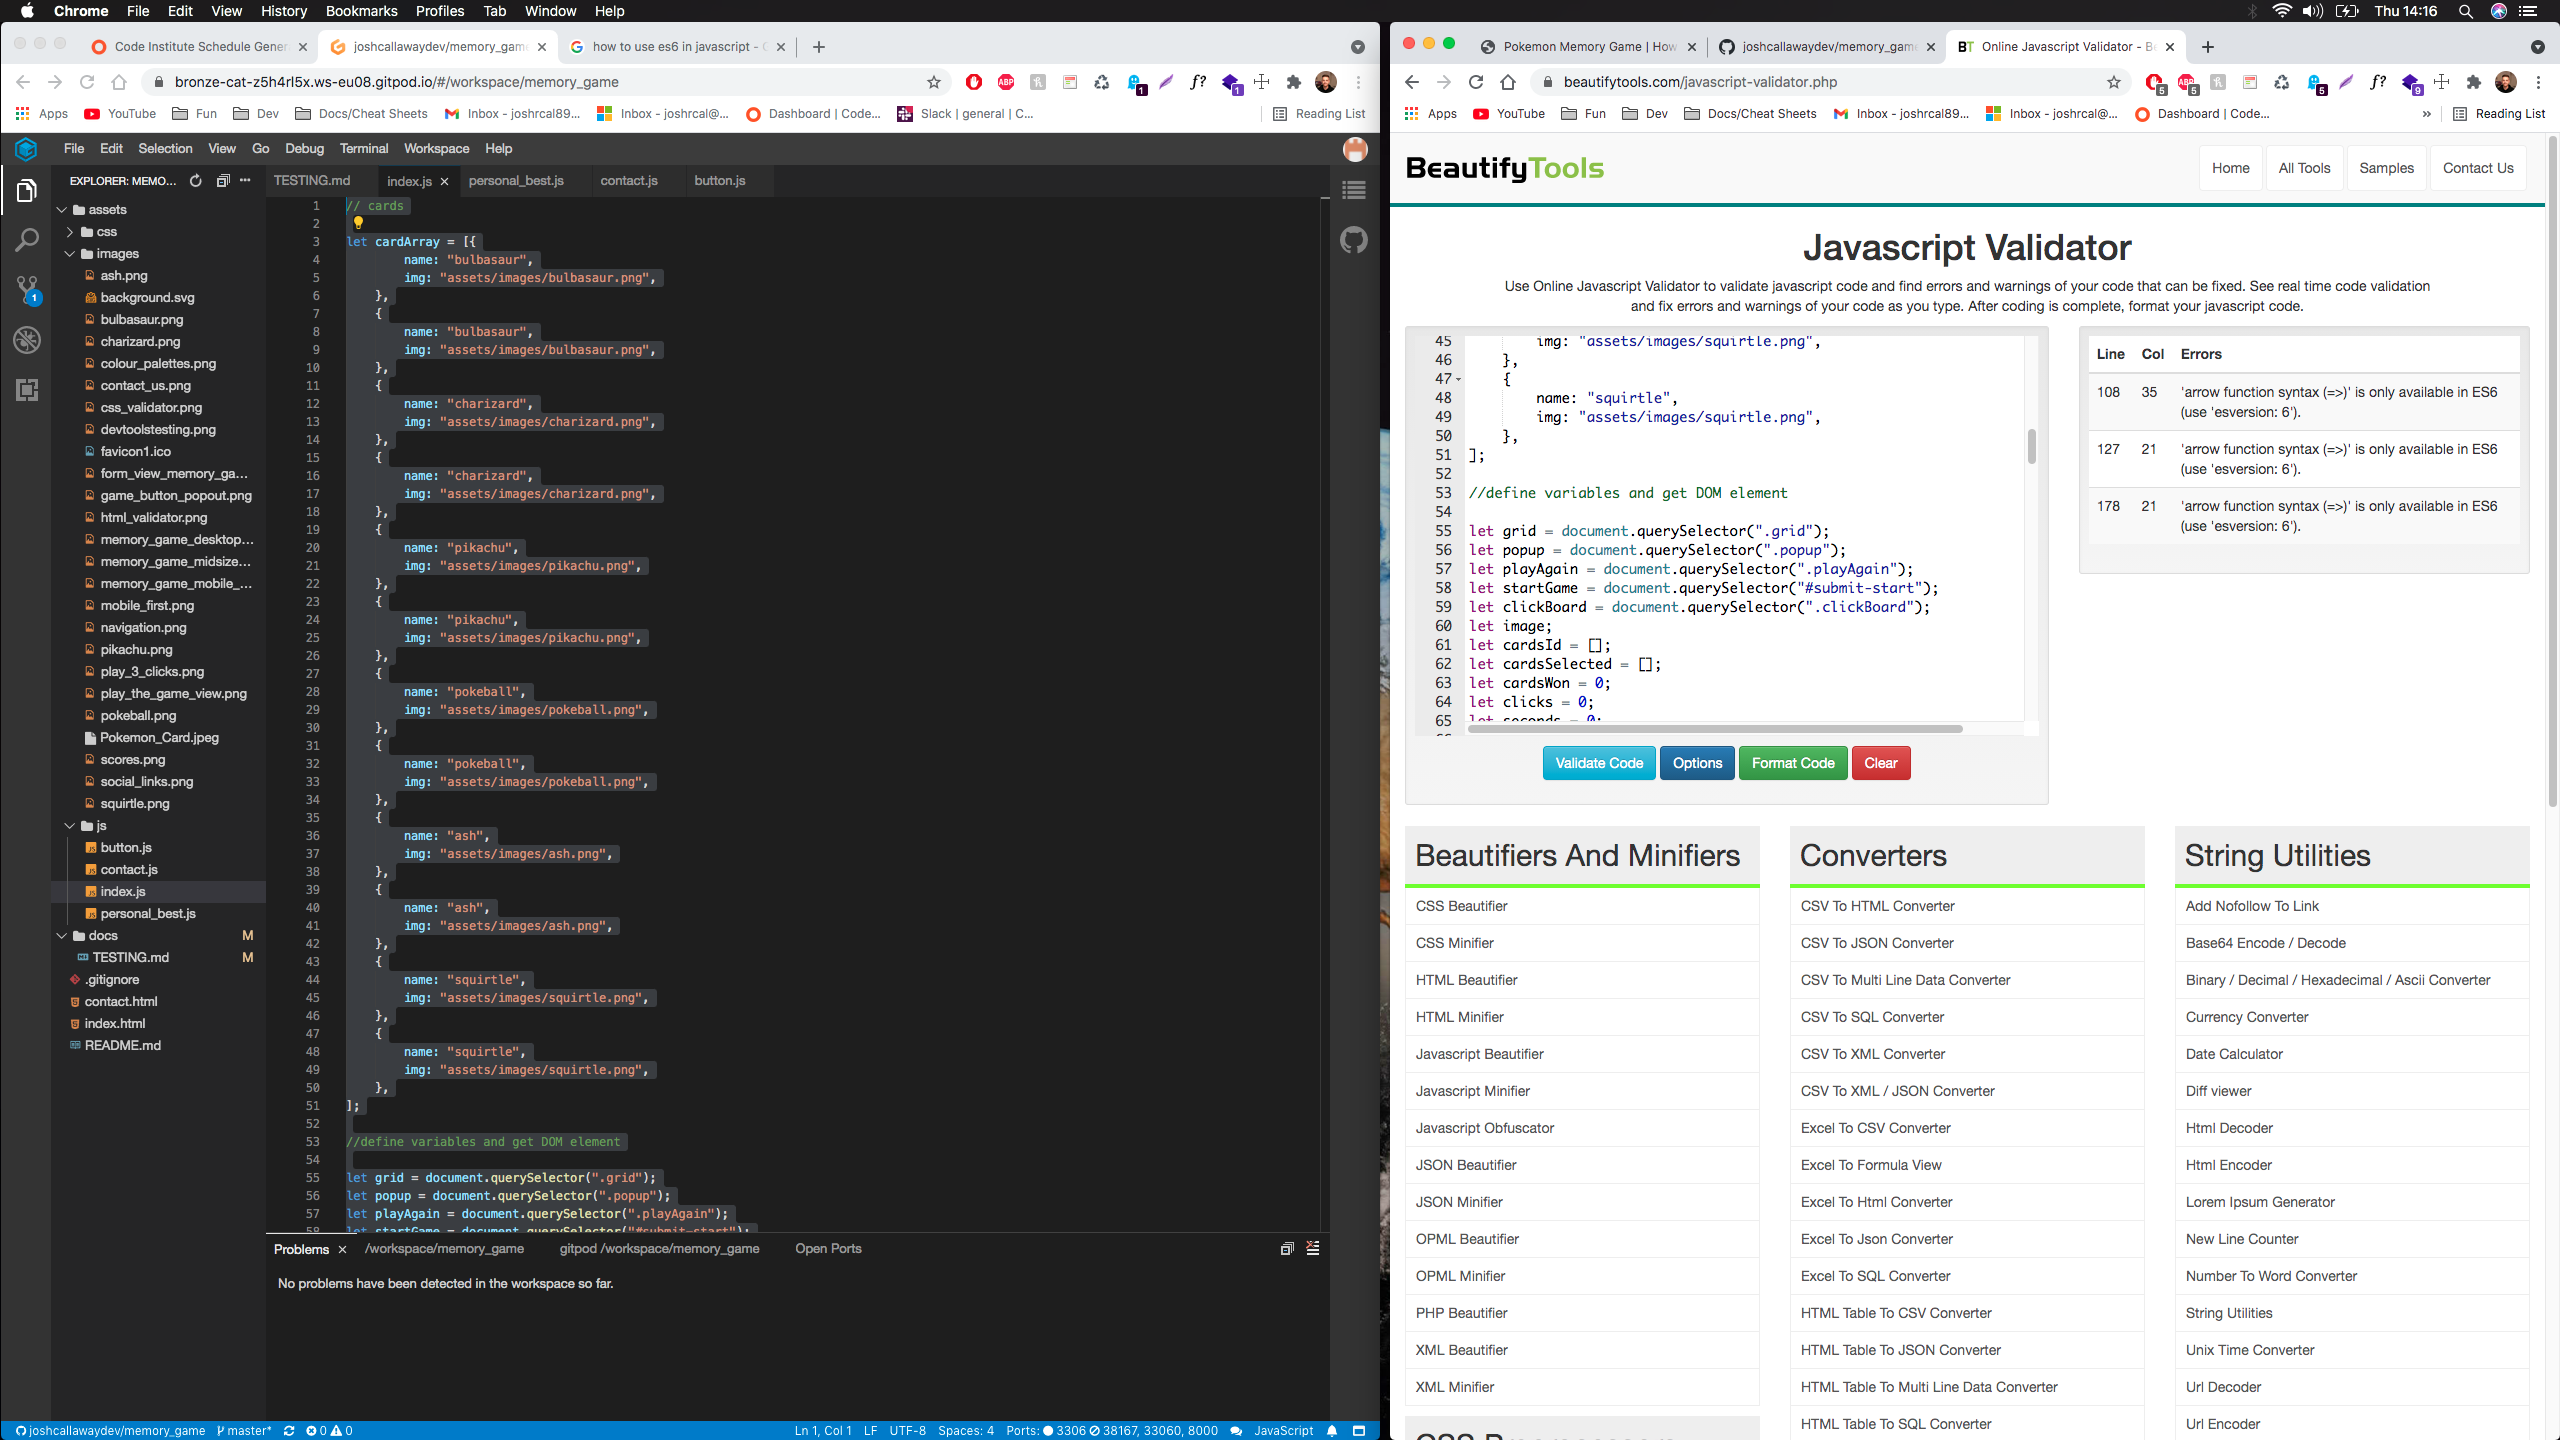
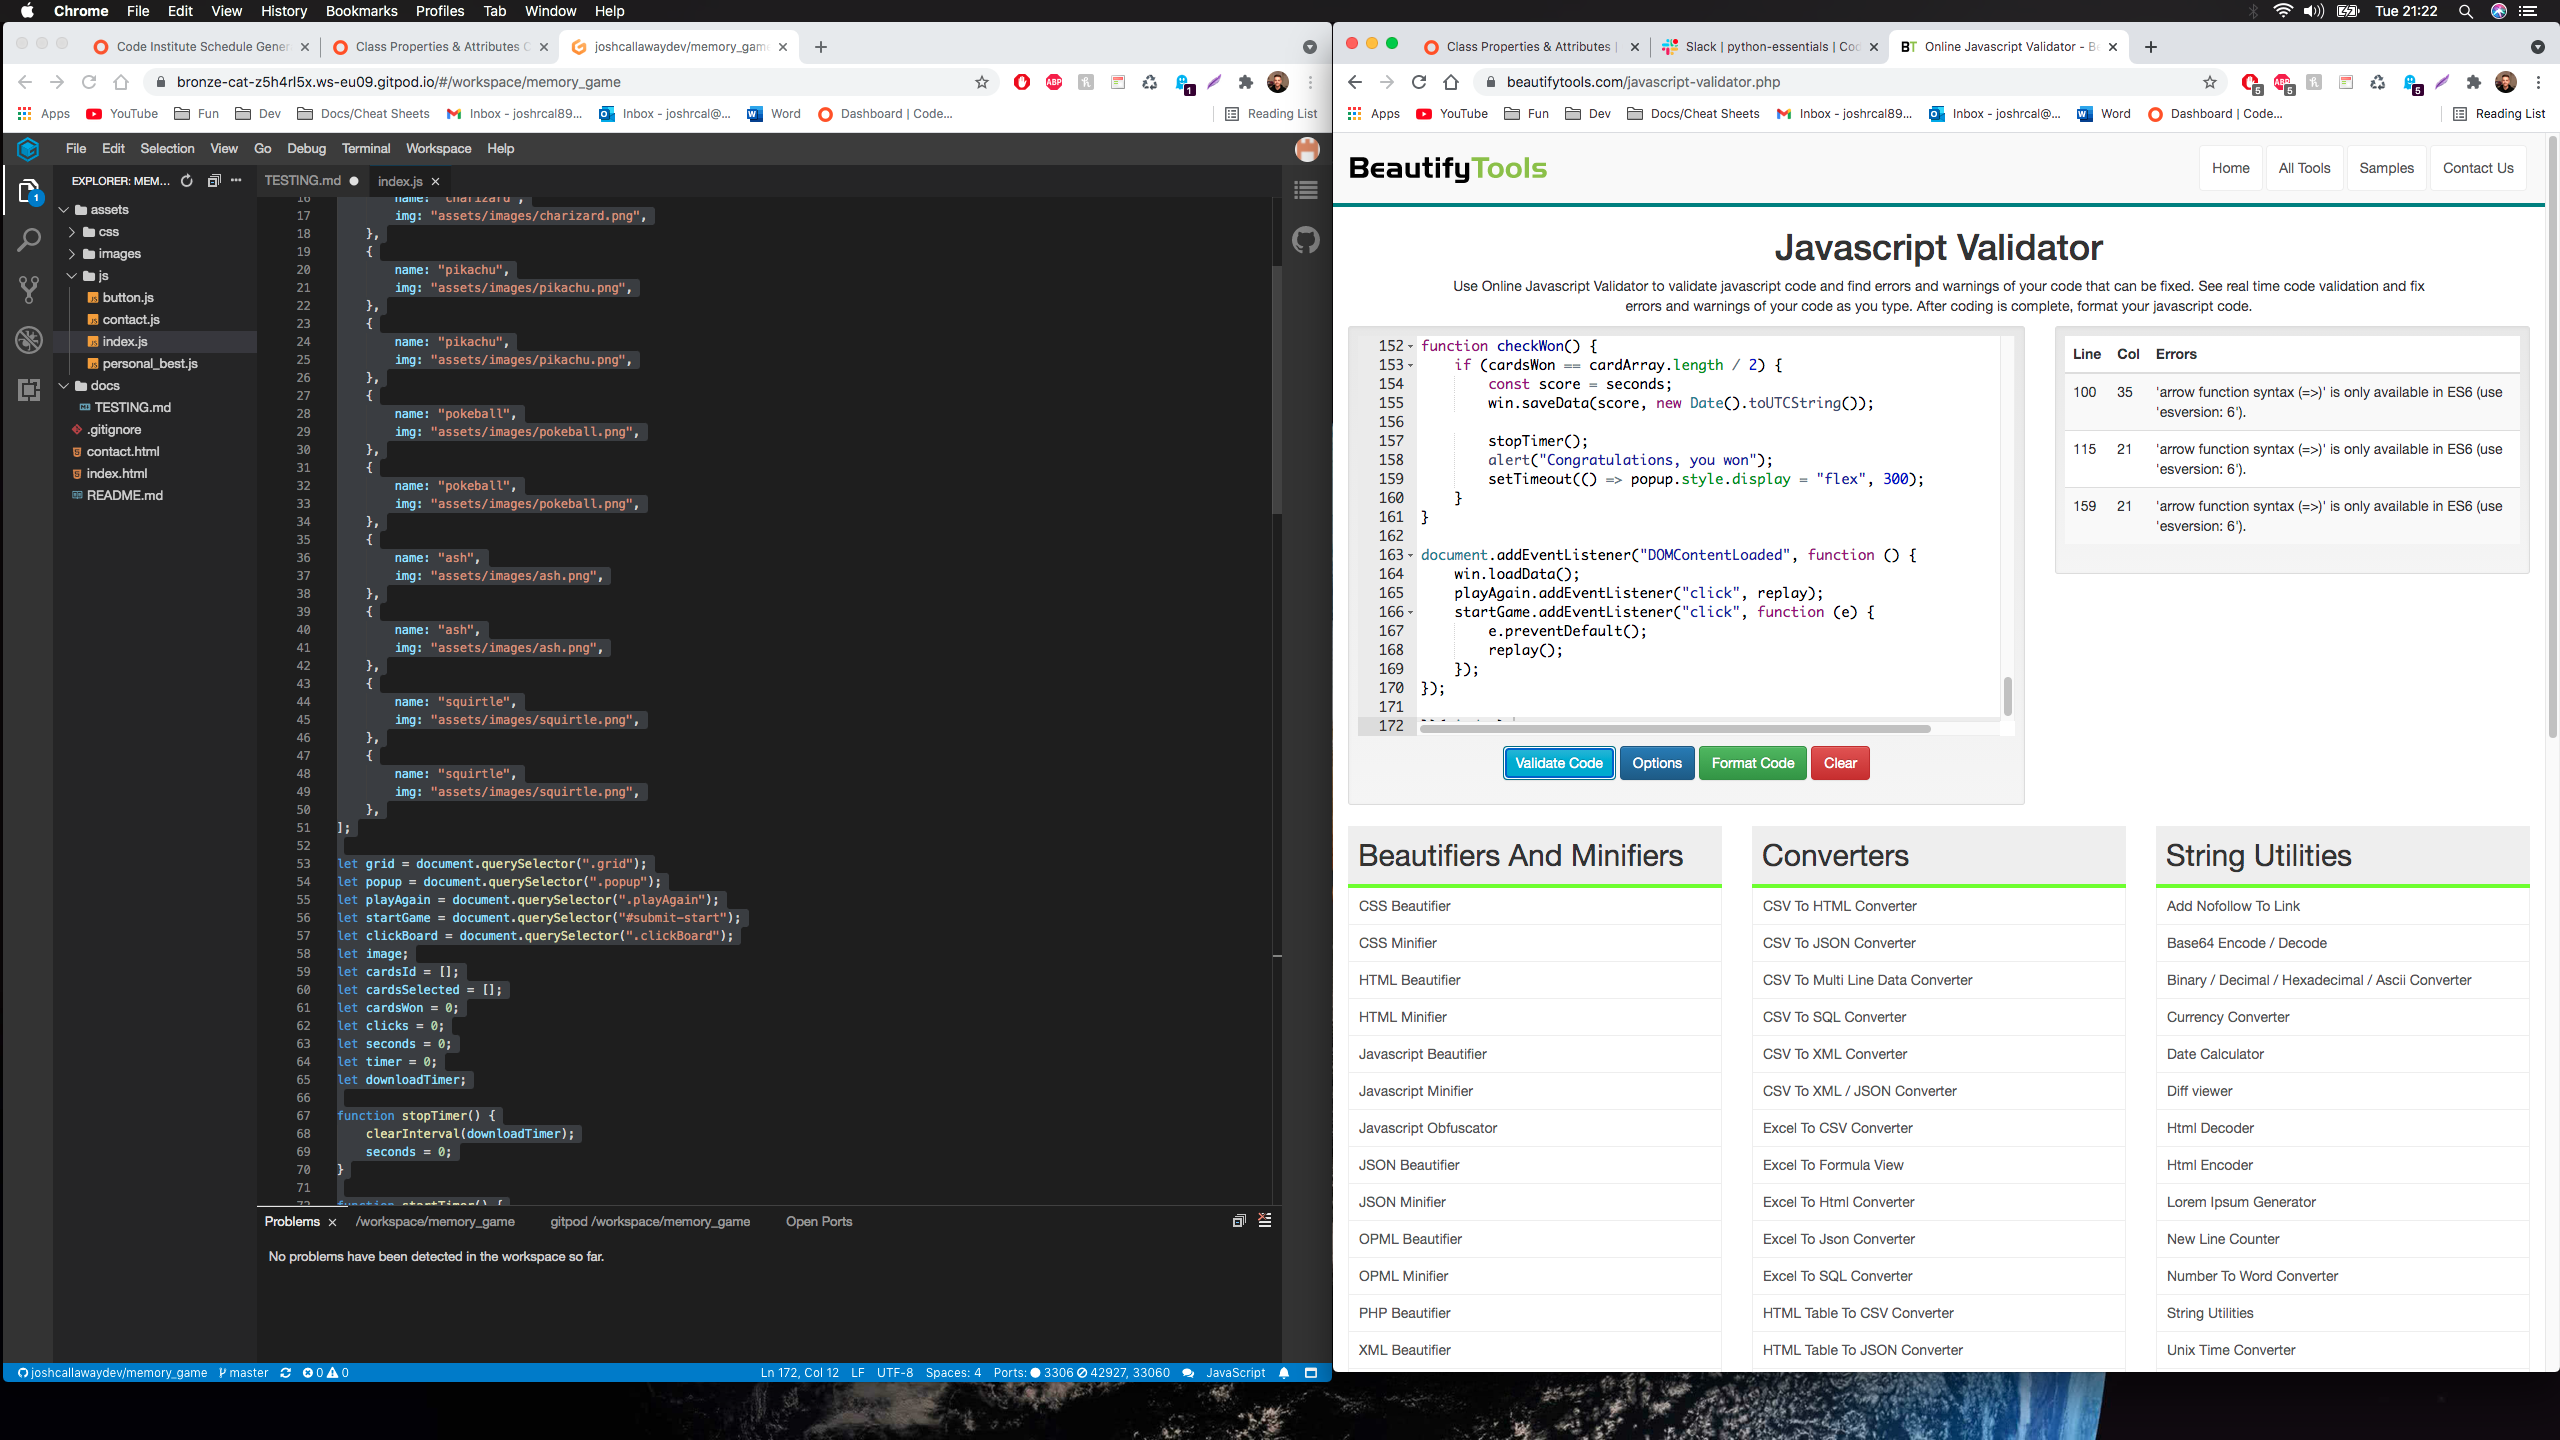
Updated js validation images.

Changed region(s): [[0.0, 0.0, 1.0, 1.0], [0.0, 0.0312, 0.375, 0.9062], [0.7812, 0.2812, 0.8125, 0.3125]]

diff --git a/docs/TESTING.md b/docs/TESTING.md
@@ -123,7 +123,7 @@ Comments - Only alerts were advising no use of the function but this is in use o
 
 With more time i would have liked to refine the game validation. Currently if you click too quickly the logic can not keep up and the clicks can be unregistered.
 
-Further to this you can click a card after its open and it will close. I would to add more validation so this does not hapen.
+Further to this you can click a card after its open and it will close. I would like to add more validation so this does not happen.
 
 I would have also liked to have presented the scores automatically, without the need to refresh the page. All features that can be implemented in later releases.
 
